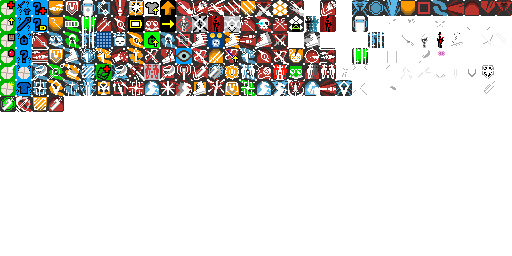
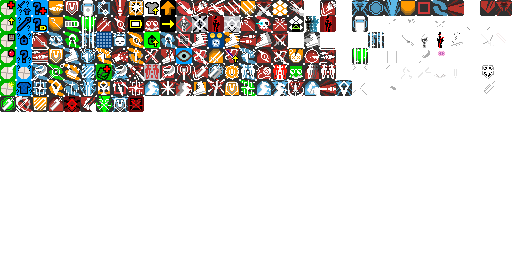
짤짤이

Changed region(s): [[0.125, 0.375, 0.2812, 0.4375], [0.9062, 0.0, 0.9375, 0.0625], [0.9062, 0.2812, 0.9375, 0.3125]]

diff --git a/Arrrknights/core/src/main/java/com/shatteredpixel/shatteredpixeldungeon/actors/hero/Talent.java b/Arrrknights/core/src/main/java/com/shatteredpixel/shatteredpixeldungeon/actors/hero/Talent.java
@@ -107,7 +107,7 @@ public enum Talent {
 	//Warlock T3
 	SOUL_EATER(46, 3), SOUL_SIPHON(47, 3), NECROMANCERS_MINIONS(48, 3),
 	//Chaos T3
-	CHIMERA(46, 3), RESTRICTION(47, 3), EMOTION_ABSORPTION(48, 3),
+	CHIMERA(196, 3), RESTRICTION(197, 3), EMOTION_ABSORPTION(198, 3),
 	//Mage T4
 	LIBERATION(49,3), RHODES(50,3),
 	//Battlemage T4
@@ -115,7 +115,7 @@ public enum Talent {
 	//Warlokc T4
 	EMOTION(46,4), LORD(47,4),
 	//Chaos T4
-	STABILIZE(46,4), MIND_CRASH(47,4),
+	STABILIZE(199,4), MIND_CRASH(200,4),
 
 	//Rogue T1
 	CACHED_RATIONS(64), THIEFS_INTUITION(65), SUCKER_PUNCH(66), PROTECTIVE_SHADOWS(67),

diff --git a/Arrrknights/core/src/main/java/com/shatteredpixel/shatteredpixeldungeon/actors/hero/HeroSubClass.java b/Arrrknights/core/src/main/java/com/shatteredpixel/shatteredpixeldungeon/actors/hero/HeroSubClass.java
@@ -104,7 +104,7 @@ public enum HeroSubClass {
 			case BATTLEMAGE:
 				return new Image(Assets.Interfaces.BUFFS_LARGE, 48, 80, 16, 16);
 			case CHAOS:
-				return new Image(Assets.Interfaces.BUFFS_LARGE, 48, 80, 16, 16);
+				return new Image(Assets.Interfaces.BUFFS_LARGE, 208, 80, 16, 16);
 
 			case ASSASSIN:
 				return new Image(Assets.Interfaces.BUFFS_LARGE, 64, 80, 16, 16);

diff --git a/Arrrknights/core/src/main/java/com/shatteredpixel/shatteredpixeldungeon/actors/mobs/npcs/NPC_Gglow.java b/Arrrknights/core/src/main/java/com/shatteredpixel/shatteredpixeldungeon/actors/mobs/npcs/NPC_Gglow.java
@@ -13,7 +13,7 @@ import com.watabou.utils.Callback;
 import com.watabou.utils.Random;
 
 public class NPC_Gglow extends NPC {
-    private static final String[] LINE_KEYS = {"free1", "free2", "free3"};
+    private static final String[] LINE_KEYS = {"free1", "free2", "free3", "free4", "free5"};
 
     {
         spriteClass = Pink_doggiSprite.class;

diff --git a/Arrrknights/core/src/main/java/com/shatteredpixel/shatteredpixeldungeon/sprites/Pink_doggiSprite.java b/Arrrknights/core/src/main/java/com/shatteredpixel/shatteredpixeldungeon/sprites/Pink_doggiSprite.java
@@ -34,7 +34,7 @@ public class Pink_doggiSprite extends MobSprite {
 
         TextureFilm frames = new TextureFilm( texture, 36, 36 );
 
-        idle = new Animation( 8, true );
+        idle = new Animation( 10, true );
         idle.frames( frames, 0, 1, 2, 3, 4, 5, 6, 7 );
 
         run = idle.clone();
